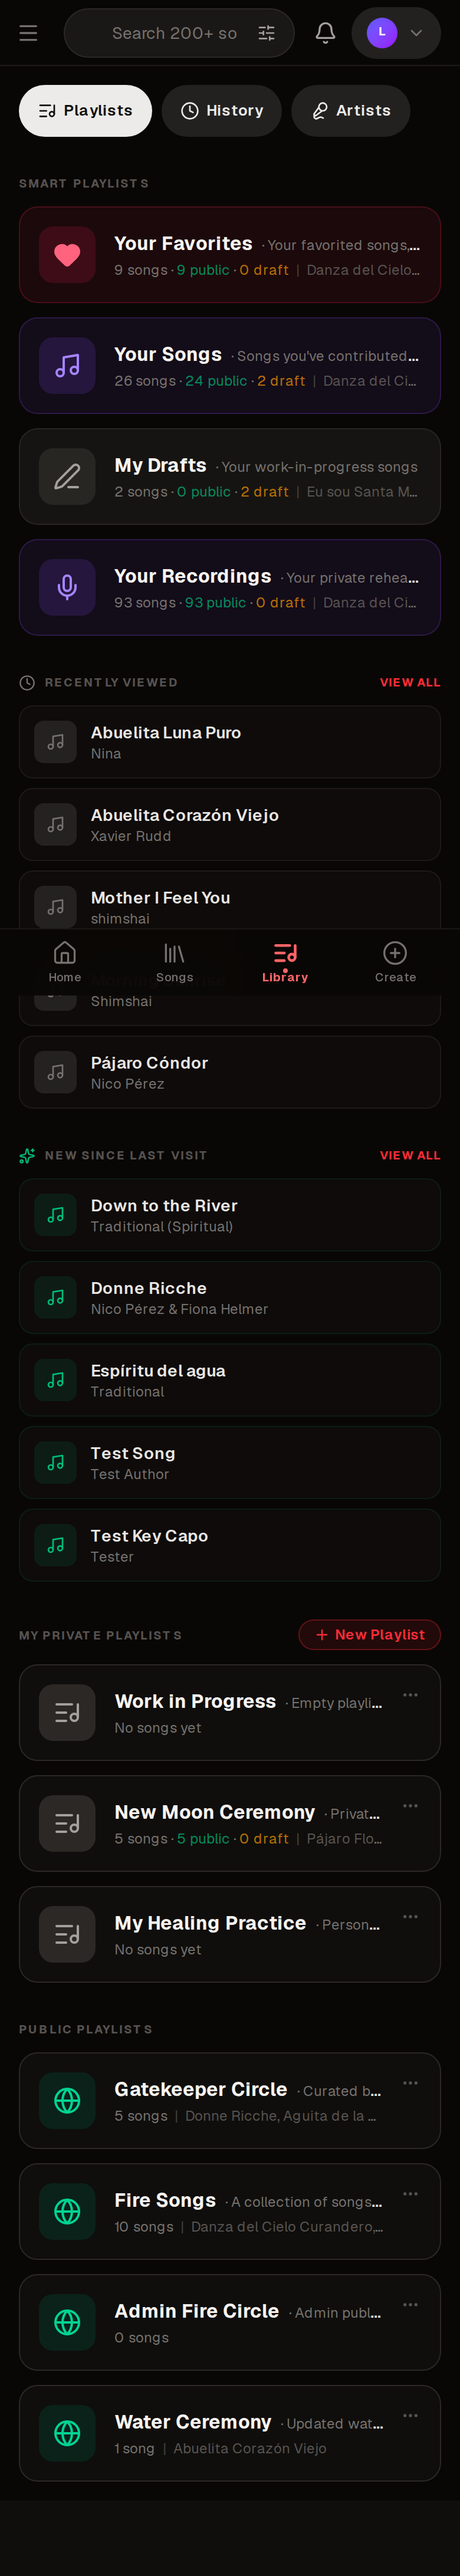
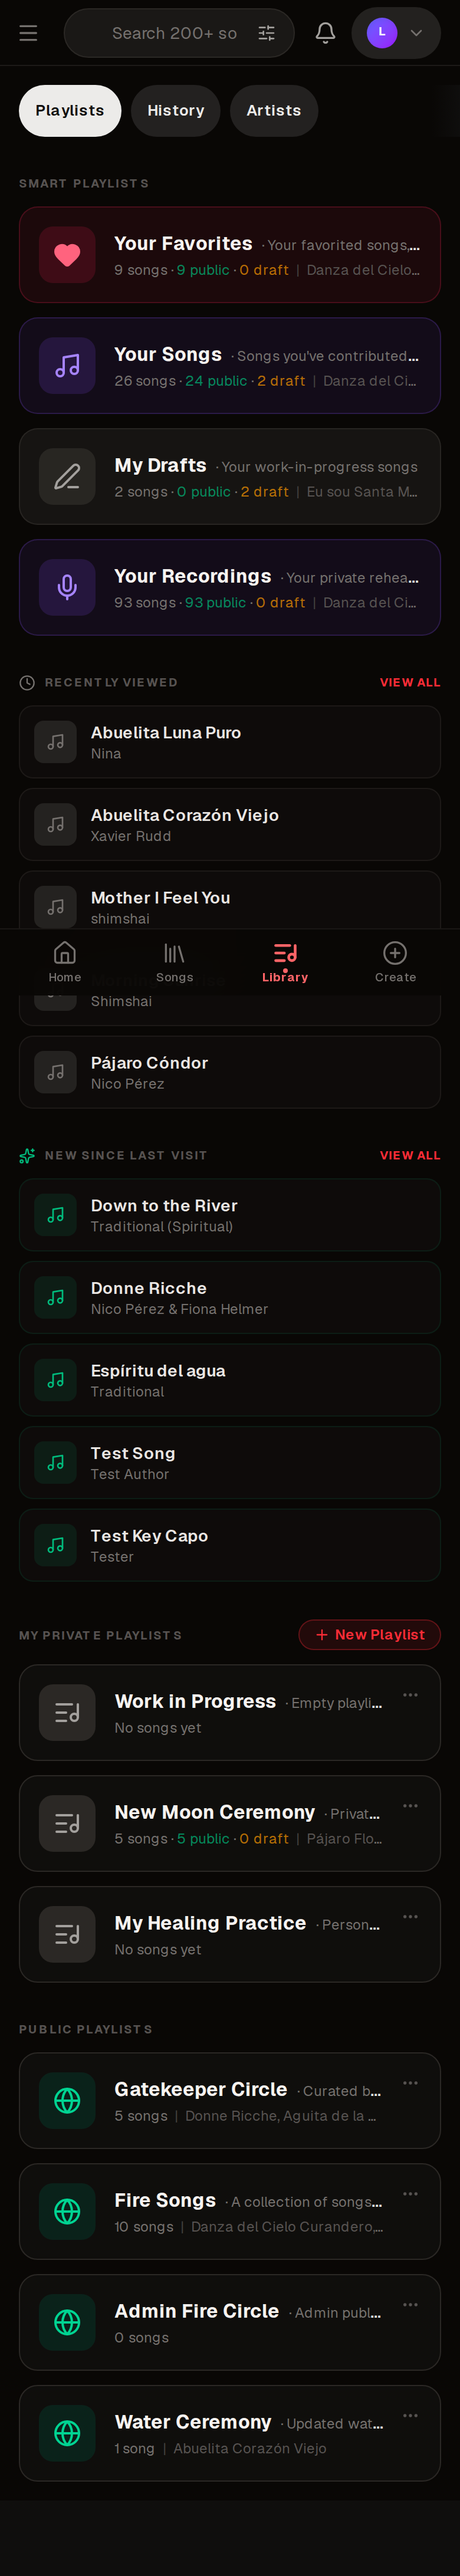
fix(library): keep long-locale tab labels on screen, restore the edge fade, breadcrumb to /library
Review follow-up: icons hidden below sm and tighter padding so ru/qu fit
390 px; locale-pinned e2e including ru and qu.

Changed region(s): [[0.2154, 0.0311, 0.8923, 0.0623], [0.0923, 0.0311, 0.1231, 0.0623]]

diff --git a/e2e/tests/ux-v2-library-tabs.spec.ts b/e2e/tests/ux-v2-library-tabs.spec.ts
@@ -7,9 +7,16 @@ import { ROLES } from '../fixtures/roles';
  */
 test.use({ viewport: { width: 390, height: 844 }, storageState: ROLES.member.storage });
 
+const LOCALE_KEY = 'sacred-fire-songs-locale';
+const pinLocale = (page: import('@playwright/test').Page, locale: string) =>
+  page.addInitScript(([k, v]) => localStorage.setItem(k, v), [LOCALE_KEY, locale]);
+const tabRow = (page: import('@playwright/test').Page) =>
+  page.locator('main nav').filter({ has: page.locator('a[href="/library/playlists"]') }).first().getByRole('link');
+
 test('Library tabs on a phone: every label visible, no "Coming soon" tab', async ({ page }) => {
+  await pinLocale(page, 'en');
   await page.goto('/library/playlists');
-  const tabs = page.getByRole('navigation', { name: 'Library' }).getByRole('link');
+  const tabs = tabRow(page);
   await expect(tabs).toHaveCount(3);
   await expect(page.locator('a[href="/library/albums"]')).toHaveCount(0);
 
@@ -28,10 +35,28 @@ test('Library tabs on a phone: every label visible, no "Coming soon" tab', async
   }
 });
 
+// The longest labels (ru, qu) must still fit 390 px.
+for (const [locale, playlists] of [['ru', 'Плейлисты'], ['qu', 'Listakuna']] as const) {
+  test(`Library tabs fit 390 px in ${locale}`, async ({ page }) => {
+    await pinLocale(page, locale);
+    await page.goto('/library/playlists');
+    const tabs = tabRow(page);
+    await expect(tabs).toHaveCount(3);
+    await expect(tabs.first()).toHaveText(playlists);
+    const vw = page.viewportSize()!.width;
+    for (const tab of await tabs.all()) {
+      const box = (await tab.boundingBox())!;
+      expect(box.x + box.width).toBeLessThanOrEqual(vw);
+    }
+  });
+}
+
 test('the hidden Albums route renders the not-found page', async ({ page }) => {
   // The route streams (app/loading.tsx), so Next keeps HTTP 200 but renders the
   // not-found UI with a noindex robots tag (node_modules/next/dist/docs, not-found.md).
+  await pinLocale(page, 'en');
   await page.goto('/library/albums');
+  await expect(page.getByRole('heading', { level: 1 }).filter({ hasText: /not found/i })).toBeVisible();
   await expect(page.locator('meta[name="robots"][content*="noindex"]').first()).toBeAttached();
   await expect(page.getByText(/liked albums|coming soon/i)).toHaveCount(0);
 });

diff --git a/app/library/LibraryTabs.tsx b/app/library/LibraryTabs.tsx
@@ -21,7 +21,7 @@ export default function LibraryTabs() {
         return (
             <nav aria-label={t('nav.library')} className="mb-8">
                 <div className="flex items-center gap-1.5 text-meta text-fg-muted">
-                    <Link href={parentTab.href} className="inline-flex min-h-tap items-center hover:text-fg transition-colors">
+                    <Link href="/library" className="inline-flex min-h-tap items-center hover:text-fg transition-colors">
                         {t('nav.library')}
                     </Link>
                     <ChevronRight className="size-3.5 shrink-0" aria-hidden />
@@ -49,18 +49,20 @@ export default function LibraryTabs() {
                                 key={href}
                                 href={href}
                                 aria-current={isActive ? 'page' : undefined}
-                                className={`inline-flex min-h-tap items-center gap-1.5 px-4 rounded-pill text-meta font-semibold whitespace-nowrap shrink-0 transition-colors ${
+                                className={`inline-flex min-h-tap items-center gap-1.5 px-3.5 rounded-pill text-meta font-semibold whitespace-nowrap shrink-0 transition-colors ${
                                     isActive
                                         ? 'bg-chip-active text-on-chip-active'
                                         : 'bg-chip text-on-chip hover:bg-line'
                                 }`}
                             >
-                                <Icon className="size-4" aria-hidden />
+                                <Icon className="hidden sm:block size-4" aria-hidden />
                                 {label}
                             </Link>
                         );
                     })}
                 </div>
+                {/* Edge fade: hints that the row scrolls if a locale's labels are wider than the phone. */}
+                <div aria-hidden className="pointer-events-none absolute inset-y-0 -right-4 w-6 bg-gradient-to-l from-bg to-transparent md:hidden" />
             </nav>
         </>
     );
